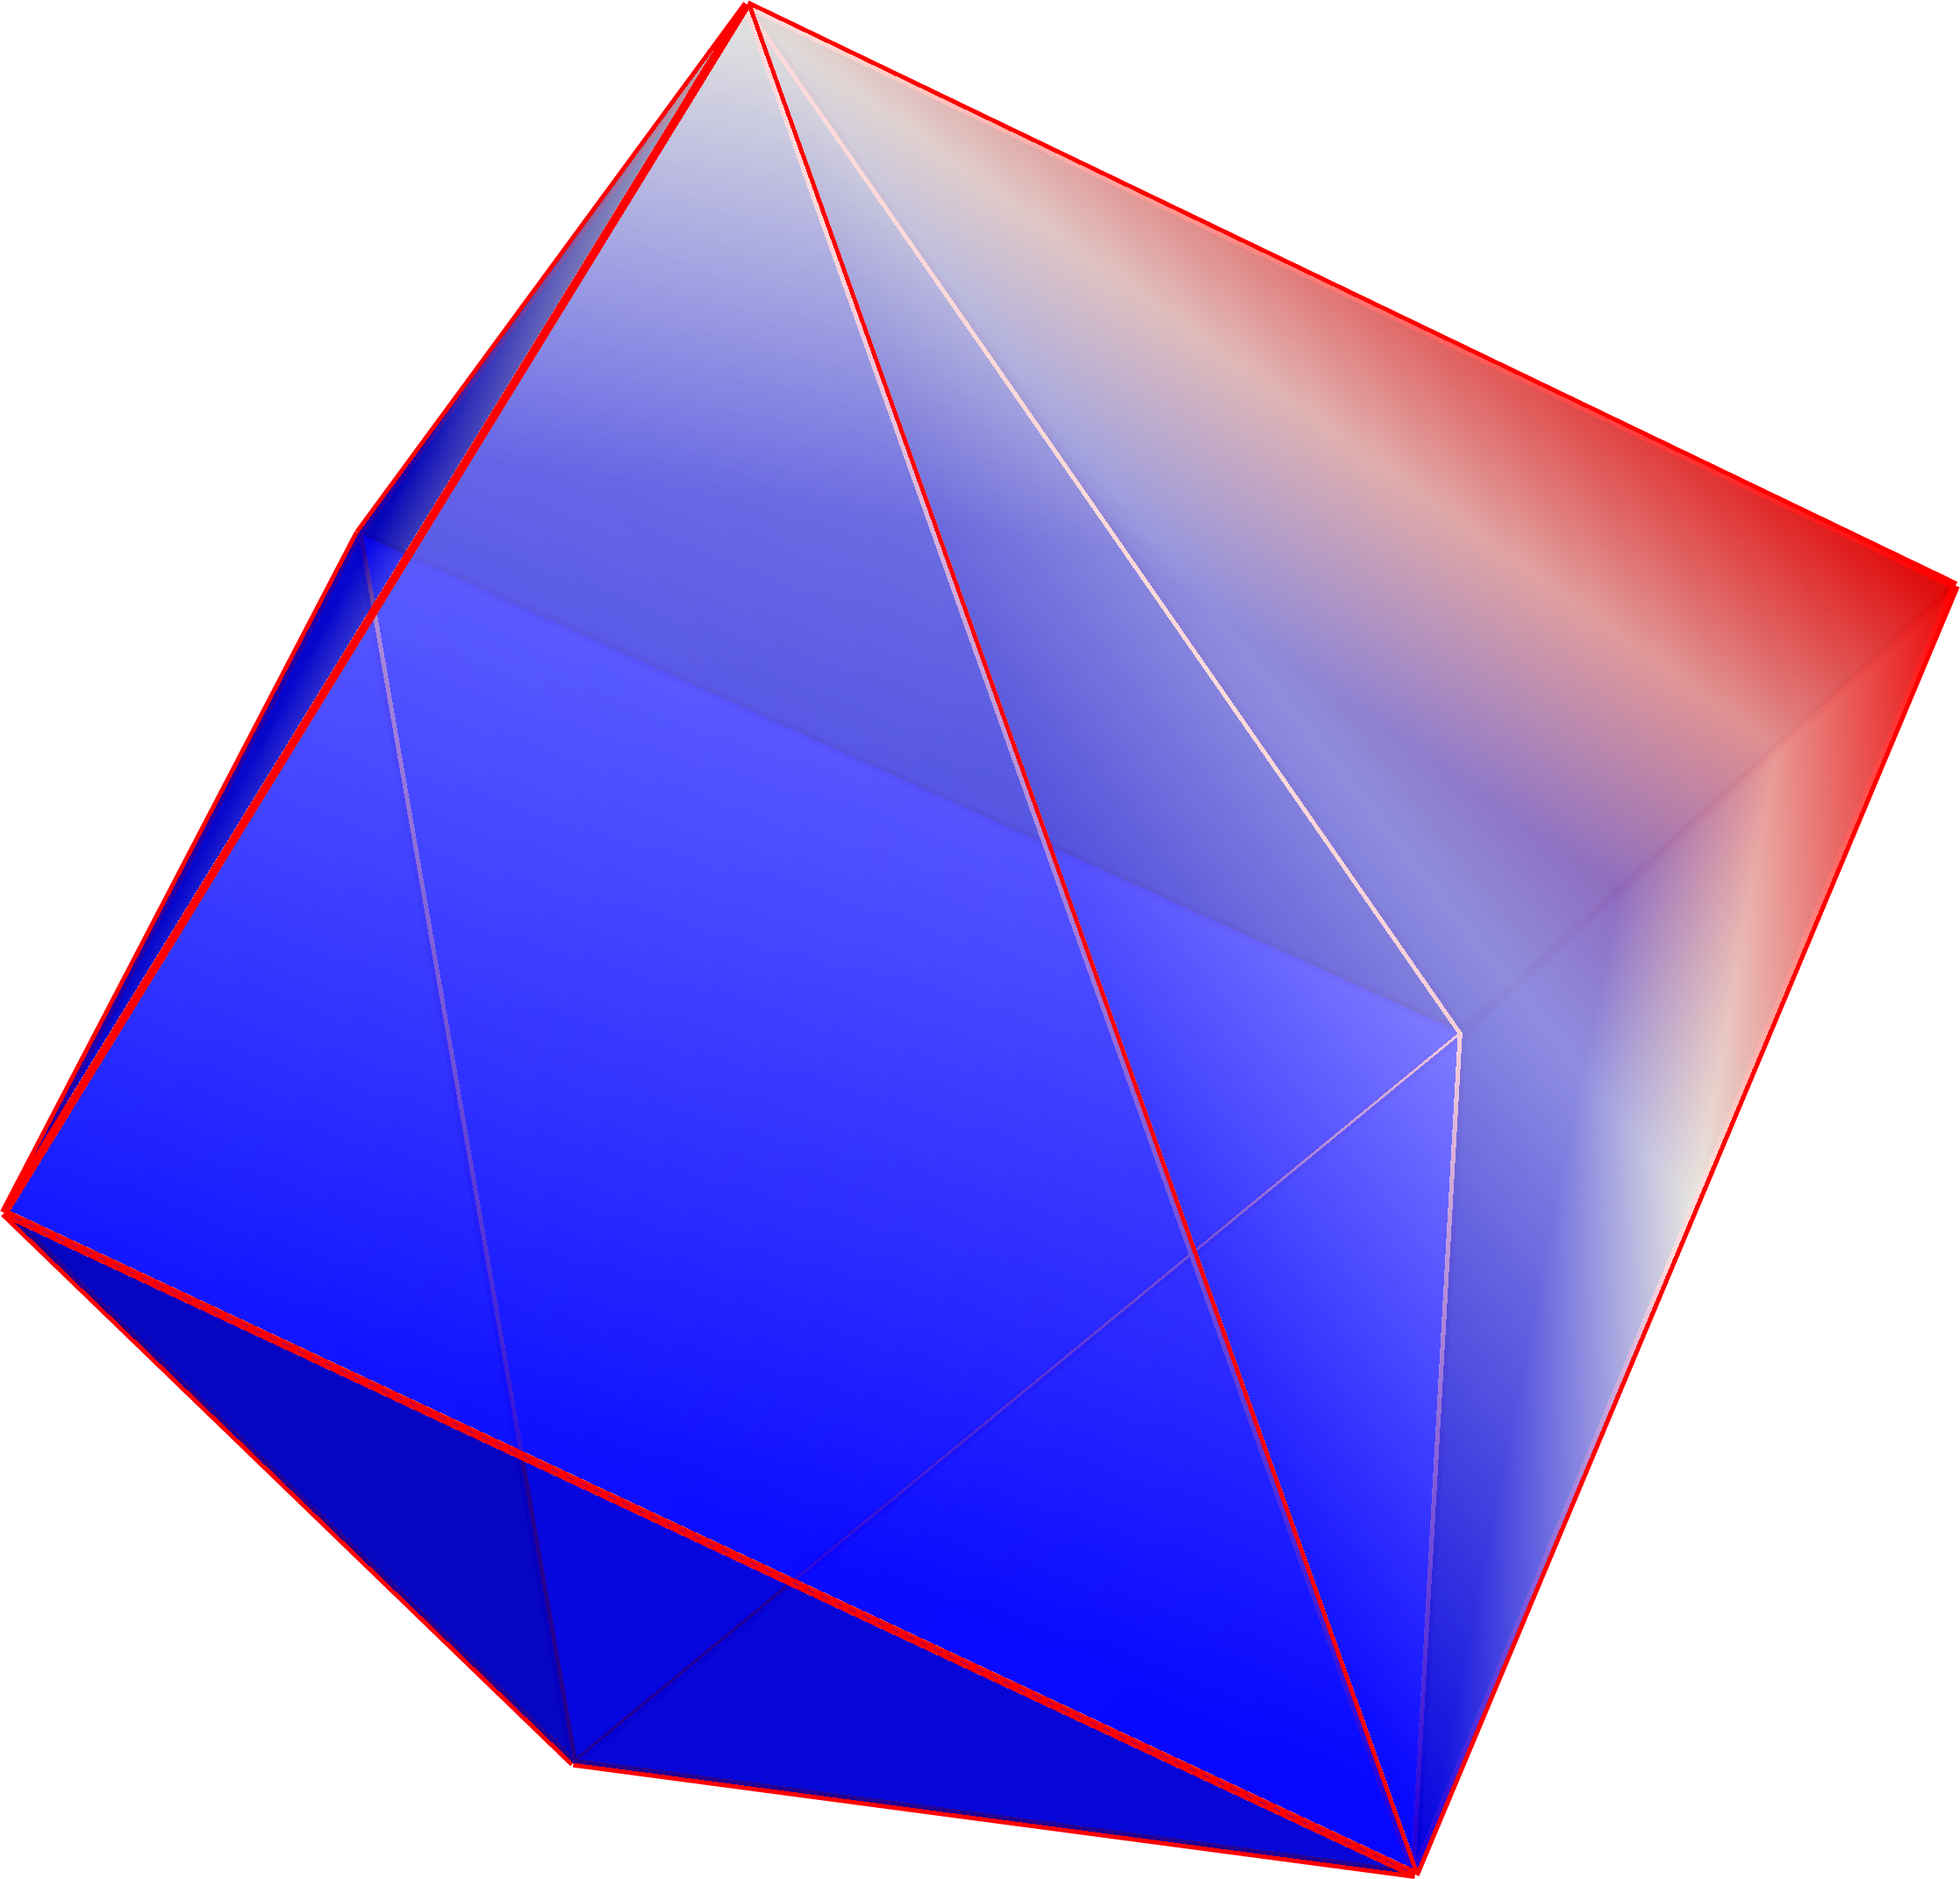
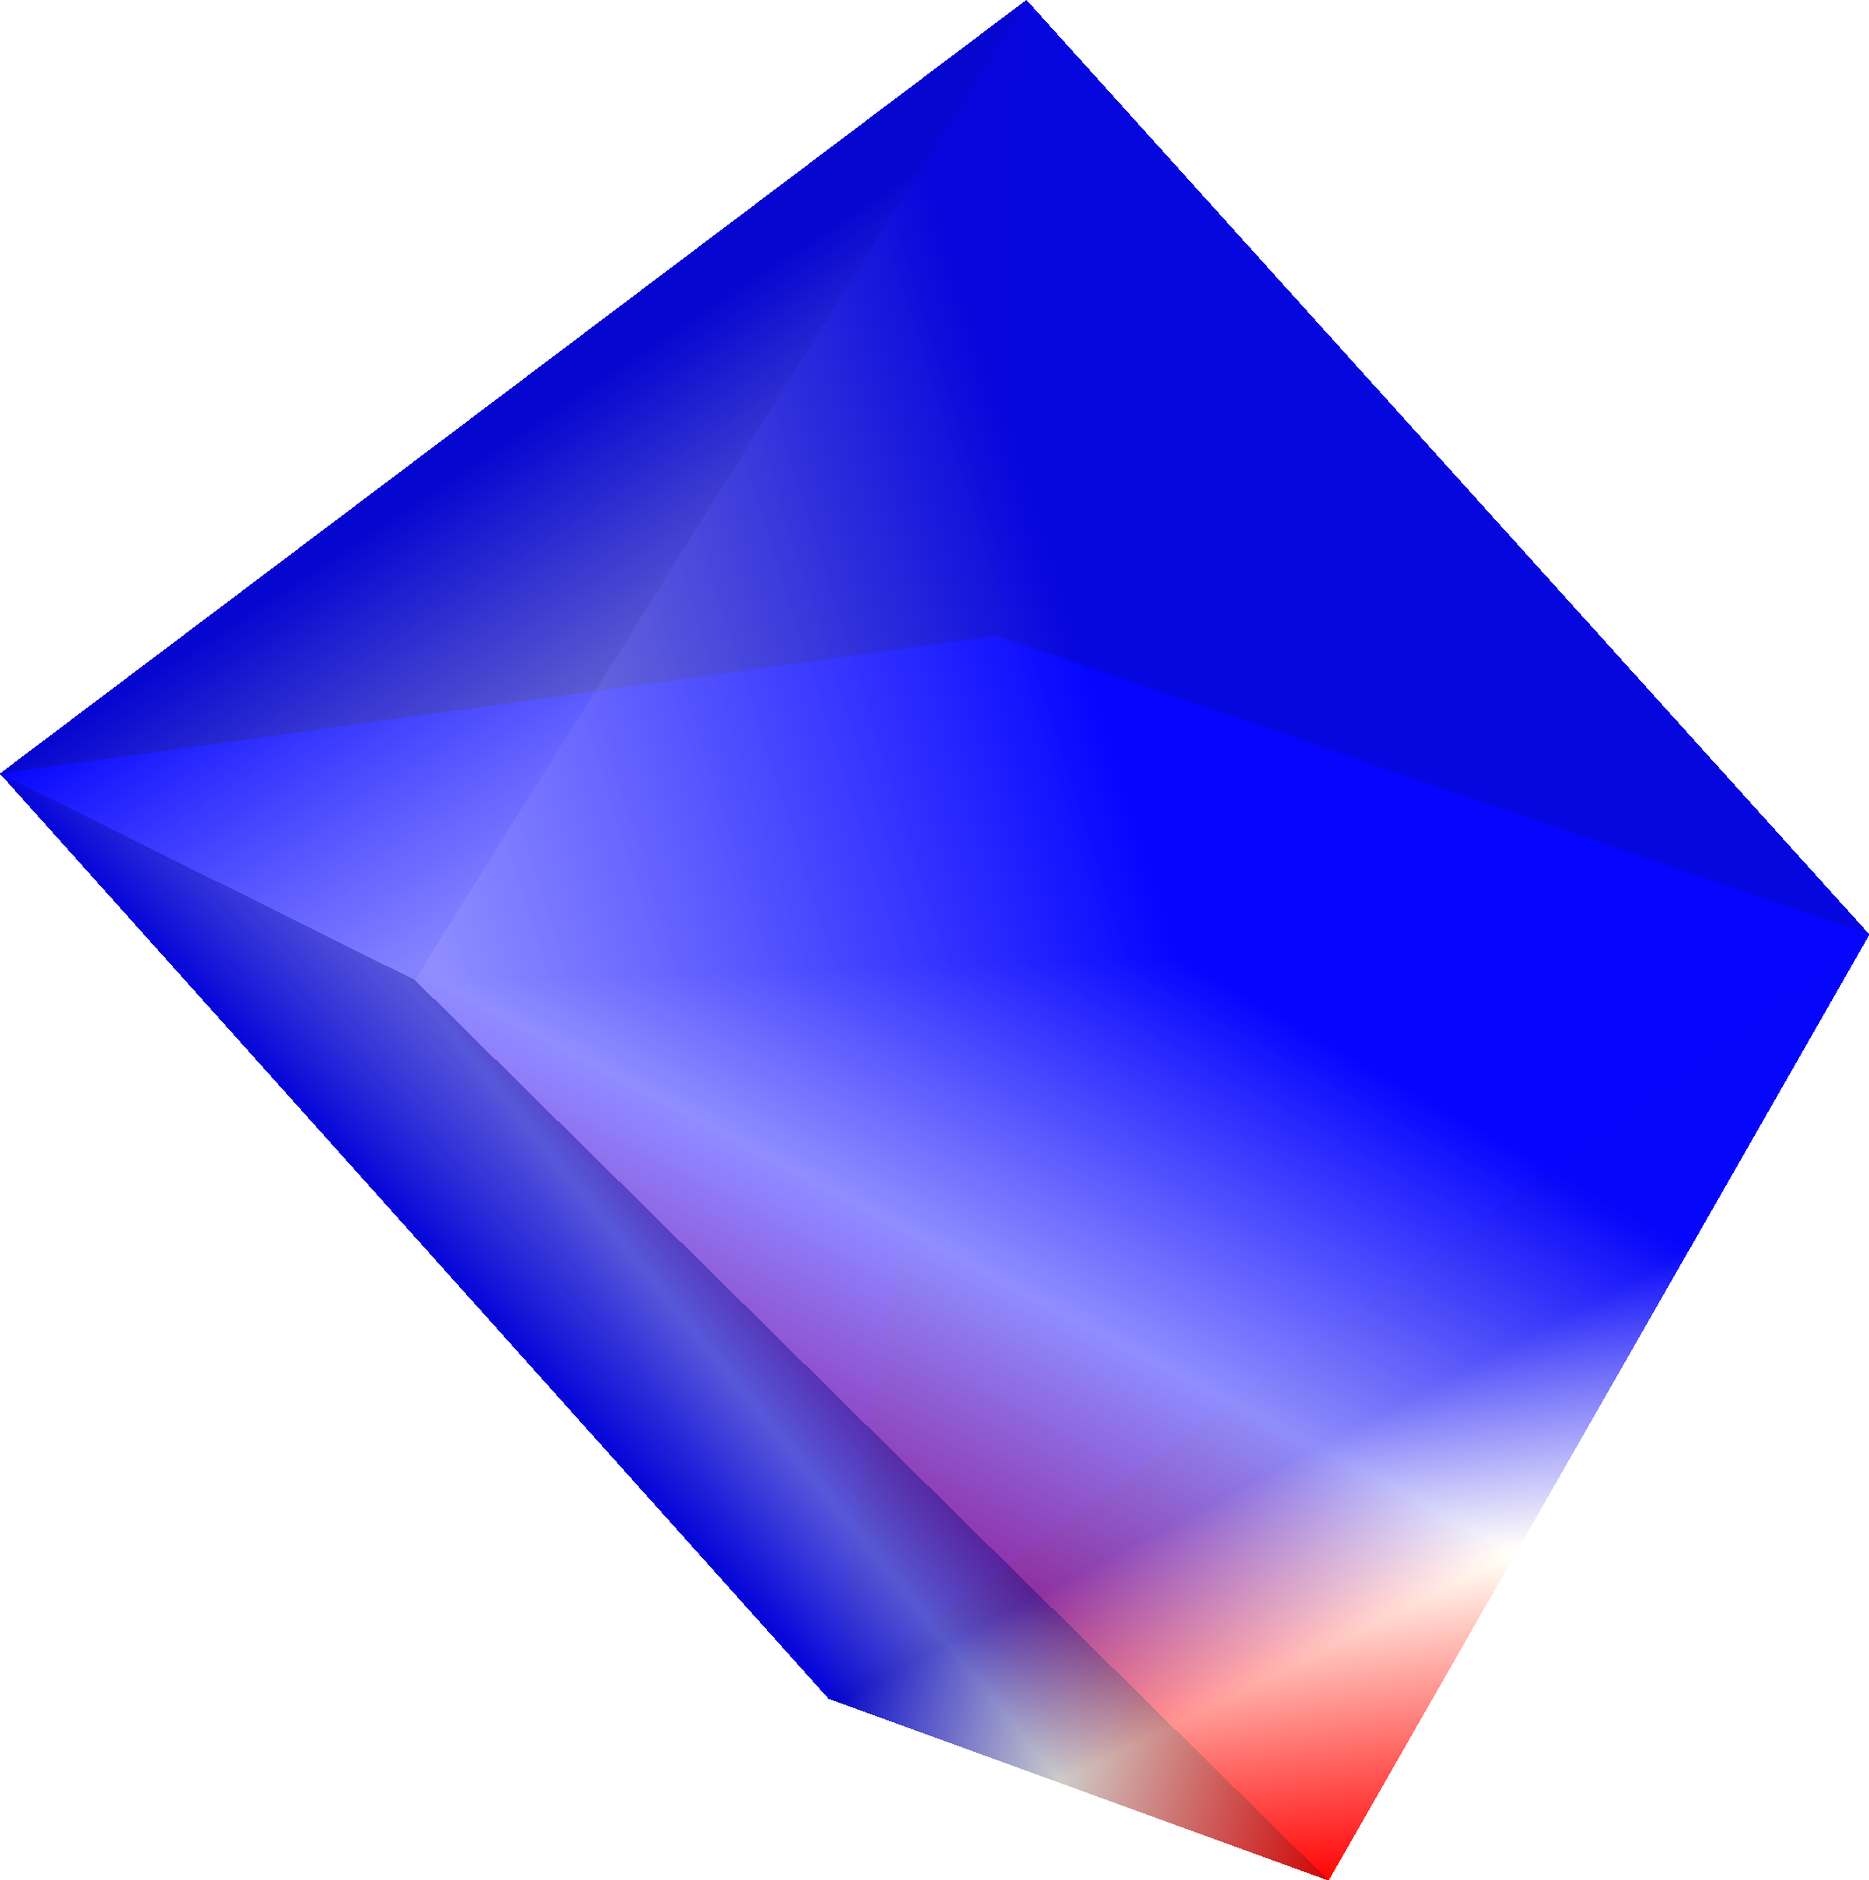
Working implementation of bonds and interactive delete

diff --git a/examples/render_capped_trigonal_prism/calc_sph_clean.py b/examples/render_capped_trigonal_prism/calc_sph_clean.py
@@ -11,9 +11,89 @@ from os import listdir
 from os.path import isfile, join
 from pyvista import PolyData
 import pyvista as pv
-from matplotlib.colors import ListedColormap
+from matplotlib.colors import ListedColormap, LinearSegmentedColormap
 import matplotlib.pyplot as plt
 from pyvista.plotting.opts import ElementType
+
+def make_interpolated_points(pointa, pointb, num_points):
+    """Interpolate points between pointa and pointb"""
+    t = np.linspace(0, 1, num_points + 2)[1:-1]  # Exclude endpoints to avoid duplicating pointa and pointb
+    x_interp = (1 - t) * pointa[0] + t * pointb[0]
+    y_interp = (1 - t) * pointa[1] + t * pointb[1]
+    z_interp = (1 - t) * pointa[2] + t * pointb[2]
+    points = np.column_stack((x_interp, y_interp, z_interp))
+    # Insert the end points 
+    points = np.insert(points, 0, pointa, axis=0)
+    points = np.insert(points, len(points), pointb, axis=0)
+    return points
+
+# Create a list of padded edges, with each point connected to the next 
+def edges_with_padding_adjacent(points):
+    n_segments = len(points)
+
+    edge_list = []
+
+    for i in range(n_segments-1):
+        edge_list.append( [i, i+1] )
+
+    edge_list = np.array(edge_list)
+    # We must "pad" the edges to indicate to vtk how many points per edge 
+    padding = np.empty(edges.shape[0], int) * 2
+    padding[:] = 2
+    edges_w_padding = np.vstack((padding, edges.T)).T
+    return edges_w_padding 
+
+def distance_projected(pointa, pointb, pointc, pointd):
+    # Calculate the direction vector of the line defined by C and D
+    direction_vector = pointd - pointc
+    
+    # Calculate the projection of A and B onto the line
+    projection_A = pointc + np.dot(pointa - pointc, direction_vector) / np.dot(direction_vector, direction_vector) * direction_vector
+    projection_B = pointc + np.dot(pointb - pointc, direction_vector) / np.dot(direction_vector, direction_vector) * direction_vector
+    
+    # Calculate the distance between the projections
+    projected_distance = np.linalg.norm(projection_B - projection_A)
+    
+    return projected_distance
+
+def create_bonds_from_edges(plotter, hull:PolyData, edges, point_colours=None, single_bond_color=None):
+    """
+    Create bonds from faces in a PolyData object 
+    """ 
+
+    num_points = 5
+    points = hull.points 
+
+    for bond in edges:
+        a_index = bond[0]
+        b_index = bond[1]
+        pointa = points[a_index]
+        pointb = points[b_index]
+        # Create matplotlib colormap
+        colors = [point_colours[a_index], point_colours[b_index]]
+        m_cmap = LinearSegmentedColormap.from_list("mycmap", colors)
+        #
+        nodes = make_interpolated_points(pointa, pointb, num_points)
+        edges = edges_with_padding_adjacent(nodes)
+        #
+        cylinder = pv.PolyData(nodes, edges)
+        tube = pv.Tube(pointa=pointa, pointb=pointb, resolution=1, radius=0.1, n_sides=15)
+        # Create color ids
+        color_ids = [] 
+        for point in tube.points:
+            color_ids.append(distance_projected(tube.points[0], point, tube.points[0], tube.points[-1]))
+        color_ids = np.array(color_ids)
+        plotter.add_mesh(tube, 
+        show_edges=False,
+        metallic=True,
+        specular=0.7,
+        ambient=0.3,
+        scalars=color_ids,
+        cmap=m_cmap,
+        show_scalar_bar=False,
+        pickable=True)
+
+    return plotter 
 
 def minimum_image_shift(point, reference, box_dimensions):
     """
@@ -82,33 +162,29 @@ sph_value = sphericity(vol,area)
 print('The calculated sphericity with 7 neighbours is', sph_value, '\n')
 
 # Visualize the convex hull with pyvista
-faces = np.column_stack((3*np.ones((len(hull.simplices), 1), dtype=int), hull.simplices)).flatten()
-polyhull = PolyData(k_near_pos, faces)
+faces_pyvistaformat = np.column_stack((3*np.ones((len(hull.simplices), 1), dtype=int), hull.simplices)).flatten()
+polyhull = PolyData(k_near_pos, faces_pyvistaformat)
 
-# This returns a PolyData object!!
-edges = polyhull.extract_feature_edges(non_manifold_edges=False)
+faces = hull.simplices
 
-# Create a tube for each line inside edges
-bond_tubes = []
-# breakpoint()
+# Get edges as pairs of indices based on the faces
+edges = set()
+
+for simplex in faces:
+    edges.add(tuple(sorted([simplex[0], simplex[1]])))
+    edges.add(tuple(sorted([simplex[1], simplex[2]])))
+    edges.add(tuple(sorted([simplex[2], simplex[0]])))
+
+edges = np.array(list(edges))
 
 # For interactive plotting 
 pl = pv.Plotter(off_screen=False) #  window_size=[4000,4000]
 pl.image_scale = 4
 
-remove_edges = []
-
-def callback(edge):
-    print("selected, ", edge, " and type", type(edge)) 
-    remove_edges.append(edge)
-
-# Pick edge
-# pl.enable_cell_picking(callback=callback)
-pl.enable_element_picking(callback=callback, mode=ElementType.EDGE)
-
 pl.set_background("white") # Background 
 # Colour the mesh faces according to the distance from the center 
 matplotlib_cmap = plt.cm.get_cmap("bwr") # Get the colormap from matplotlib
+# Add the convex hull 
 pl.add_mesh(polyhull, 
     line_width=3, 
     show_edges=False,
@@ -118,9 +194,26 @@ pl.add_mesh(polyhull,
     specular=0.7,
     ambient=0.3,cmap=matplotlib_cmap, 
     clim=[dist[4],dist[-1]], 
-    scalars=dist,)
+    scalars=dist,
+    pickable=False)
 
-pl.add_mesh(edges, color='red', line_width=10, pickable=True)
+# Create the bonds corresponding to the edges and add them to the plotter
+point_colours = ["blue", "blue", "blue", "blue", "blue", "blue", "red"]# Don't hard code
+pl = create_bonds_from_edges(pl, polyhull, edges, point_colours=point_colours)
+
+# ------------------------------------
+# Remove bonds (actors), which are individual meshes 
+
+remove_bonds = []
+
+def callback(actor):
+    print("selected, ", actor, " and type", type(actor)) 
+    print("\n")
+    pl.remove_actor(actor)
+
+pl.enable_mesh_picking(callback, use_actor=True, show=False)
+
+# ------------------------------------
 
 cam_positions = [pl.camera_position] # Camera positions we want to render later?
 
@@ -131,9 +224,11 @@ def last_frame_info(plotter, cam_pos, outfilename=None):
     cam_positions.append(plotter.camera_position)
  
 pl.show(before_close_callback=lambda pl: last_frame_info(pl,cam_positions), auto_close=False)
-
-breakpoint()
-
+# Test image  
+pl.camera_position = cam_positions[-1]
+pl.camera_set = True
+pl.screenshot("nonoctahedral_interactive.png")
+# -------------------------------------------------
 # Create a separate render image 
 pl_render = pv.Plotter(off_screen=True, window_size=[4000,4000])
 pl_render.set_background("white") # Background 
@@ -149,8 +244,6 @@ pl_render.add_mesh(polyhull,
     ambient=0.3,cmap=matplotlib_cmap, 
     clim=[dist[4],dist[-1]], 
     scalars=dist) 
-
-pl_render.add_mesh(edges, color='red', line_width=10) 
 
 pl_render.camera_position = cam_positions[-1]
 pl_render.camera_set = True
